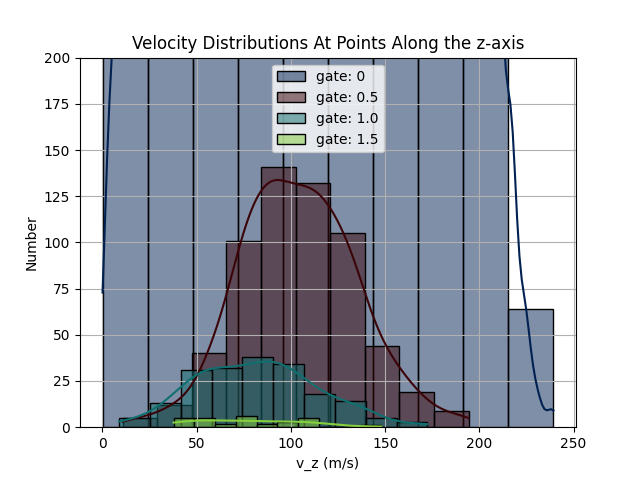
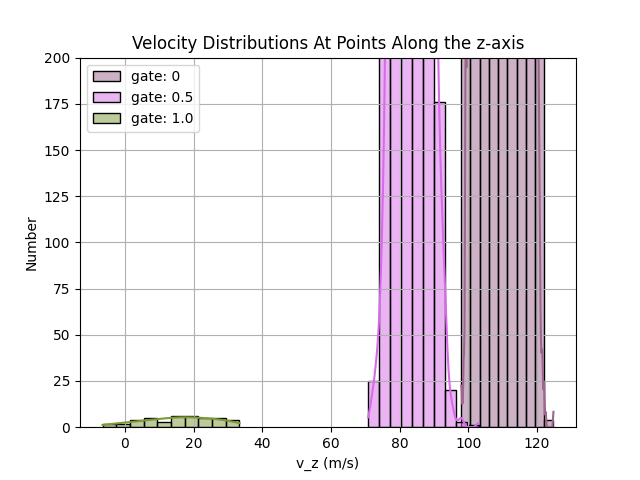
figure 8 sanity 1e7 mols runs, figure 9 sanity WIP

diff --git a/zeeman_sisyphus/dependencies.py b/zeeman_sisyphus/dependencies.py
@@ -26,7 +26,7 @@ sigma_xy = 0.0042 # <-- CaOH, He3
 sigma_vxy = 12.0 # <-- CaOH #12.06 # <-- He3 bg
 unif_xy = 0.0025 # <-- CaF
 unif_vxy = 7.5 # <-- CaF
-sigma_vz = 30.0 # <-- CaOH #2.5 # <-- CaF, sanity #39.49 # <-- CaF, real
+sigma_vz = 2.5 # <-- CaF, sanity #30.0 # <-- CaOH #39.49 # <-- CaF, real
 mu_vz = 110.0 # <-- CaOH #150.0 # <-- CaF #70.0 # <-- CaOH, He3 bg
 l_cell_to_4k = 0.075 # <-- CaOH #0.1 #<-- CaF
 l_4k_to_lens_aperture = 0.075 # <-- CaOH #0.0 # <-- CaF

diff --git a/zeeman_sisyphus/helpers.py b/zeeman_sisyphus/helpers.py
@@ -241,7 +241,7 @@ def plot_vel_long(fig, ax):
 
     # save figure
     Path('{}/tracking_plots_{}'.format(date, date)).mkdir(parents=True, exist_ok=True)
-    fig.savefig('{}/tracking_plots_{}/vel_dist_long_{}'.format(date, date, date))
+    fig.savefig(f'{date}/tracking_plots_{date}/vel_dist_long_{int(n)}_mols_{date}')
 
     return (fig, ax)
 
